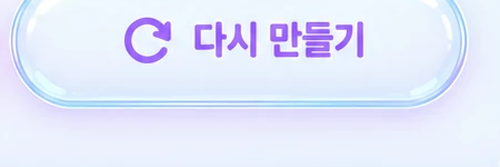
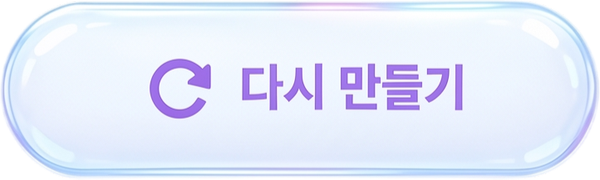
카테고리 선택 필수화 복원, 완료화면 버튼 교체·확대, 진행문구 2줄, 시작버튼 확대
- 병합 과정에서 카테고리 선택 없이도 제출이 가능하게 바뀌어 있던 것을 원래대로
  복원: 디지털/가전 또는 건강기능식품을 선택해야 "영상 만들기"가 활성화됨
- "MP4 다운로드"/"다시 만들기" 버튼을 새로 받은 이미지로 교체, 크기 확대(PC/모바일 공통)
- "창을 닫아도...나중에 다시 접속..." 안내문을 두 줄로 표시
- 모바일에서 "영상 제작 시작" 버튼이 카드 폭을 꽉 채우도록 확대

Claude-Session: https://claude.ai/code/session_019RgKKpBfyx27gSoXqEJwwP

Changed region(s): [[0.0, 0.0, 1.0, 1.0], [0.93, 0.9281, 1.0, 1.0]]

diff --git a/webapp/public/index.html b/webapp/public/index.html
@@ -76,7 +76,7 @@
           <div id="progress-fill" class="progress-fill"></div>
         </div>
         <p class="stage-label" id="progress-stage-label">준비하는 중...</p>
-        <p class="stage-sub">창을 닫아도 작업은 계속 진행돼요. 나중에 다시 접속해서 확인할 수 있어요.</p>
+        <p class="stage-sub">창을 닫아도 작업은 계속 진행돼요.<br />나중에 다시 접속해서 확인할 수 있어요.</p>
       </div>
     </section>
 

diff --git a/webapp/public/js/app.js b/webapp/public/js/app.js
@@ -74,9 +74,7 @@
   const urlInput = document.getElementById('url-input');
   const submitBtn = document.getElementById('submit-btn');
   const categoryGroup = document.getElementById('category-group');
-  let selectedCategory = 'auto';
-  submitBtn.disabled = false;
-  categoryGroup.hidden = true;
+  let selectedCategory = null;
 
   categoryGroup.querySelectorAll('.category-chip').forEach((chip) => {
     chip.addEventListener('click', () => {

diff --git a/webapp/public/css/styles.css b/webapp/public/css/styles.css
@@ -626,7 +626,7 @@ body {
 
 .result-actions .btn {
   flex: 1;
-  max-width: 200px;
+  max-width: 260px;
 }
 
 .result-actions .btn {
@@ -670,7 +670,7 @@ body {
     max-width: 340px;
   }
   #start-render-btn {
-    max-width: 380px;
+    max-width: 100%;
   }
   .result-heading-img {
     margin: 2px auto 10px;
